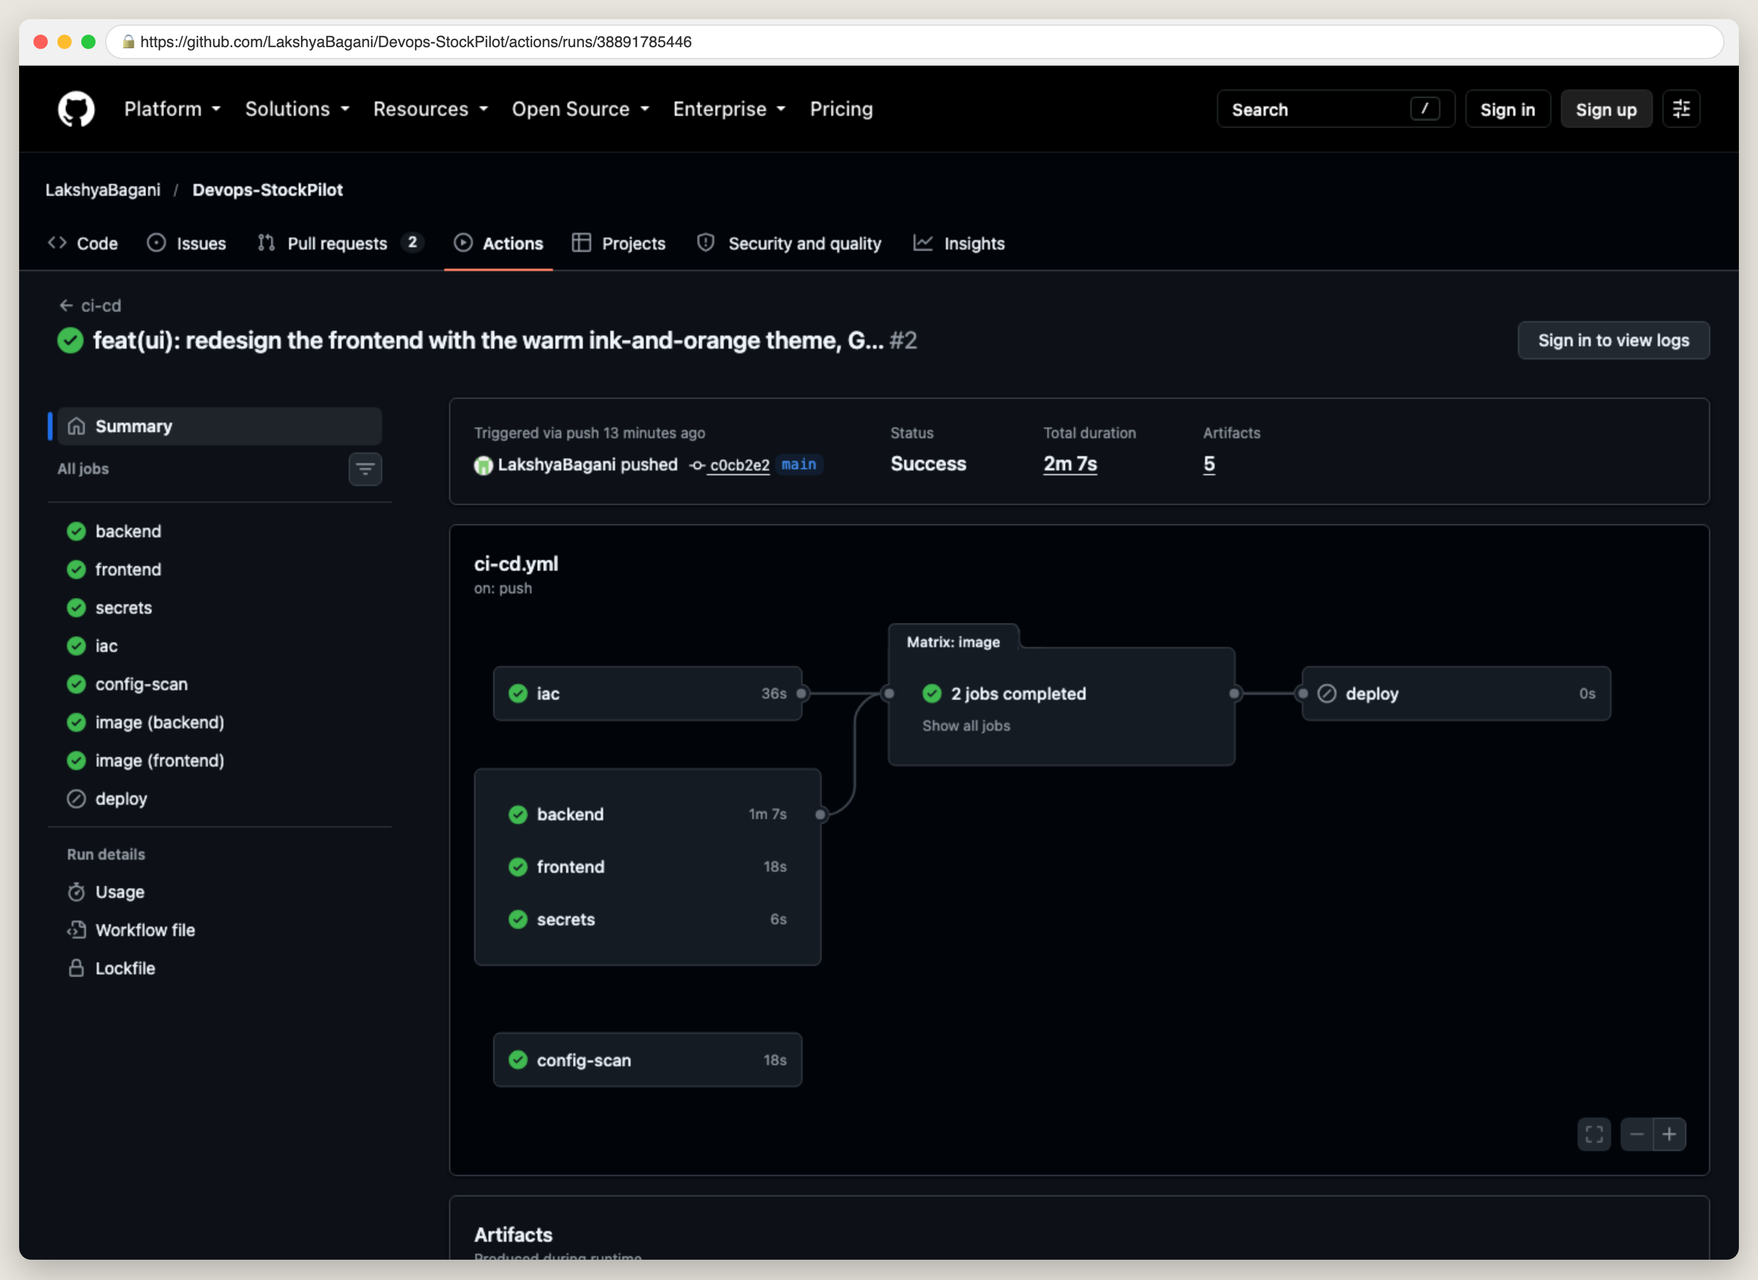
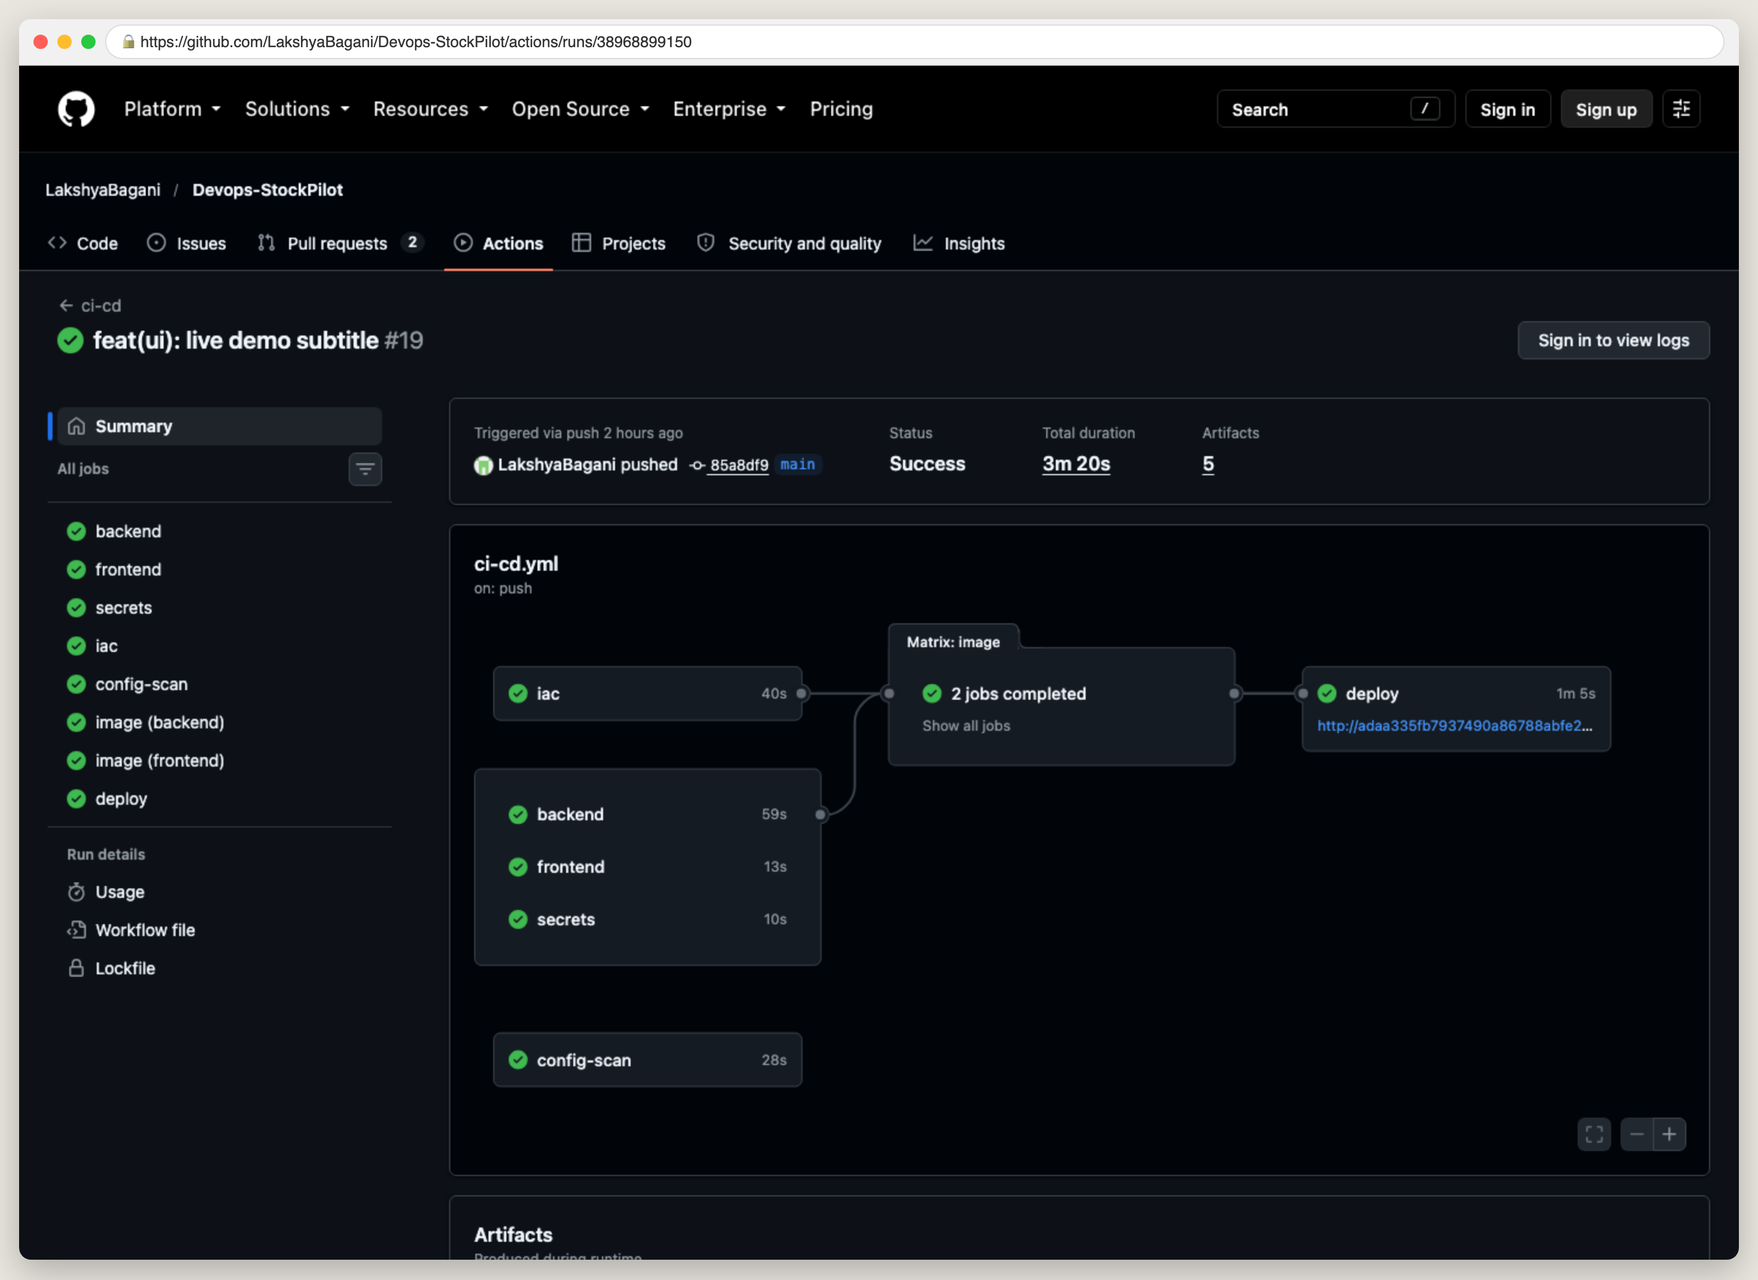
docs: direct pipeline run links, correct green-run screenshot, accurate ledger wording

diff --git a/README.md b/README.md
@@ -73,8 +73,9 @@ Traefik Ingress, and Prometheus with a Grafana dashboard shipped as code.
 
 What makes it more than CRUD:
 
-- **Stock is derived, never stored.** `on_hand = SUM(delta)` over an append-only ledger, so undo is
-  safe, the audit trail is complete and there is no counter to drift
+- **Stock is derived, never stored.** `on_hand = SUM(delta)` over a movement ledger whose rows are
+  never edited: a mistake is undone by deleting that one movement (refused if stock would go below
+  zero) and recording it again, so undo is safe and there is no counter to drift
   ([ADR-0005](docs/adr/0005-derived-stock-ledger.md)).
 - **No overselling, even with five replicas.** Every movement locks its product row
   (`SELECT … FOR UPDATE`) before it checks and writes; five PostgreSQL-only tests prove that
@@ -323,7 +324,8 @@ Alembic cycle is clean, then **284 passed, 0 skipped** in about 27 s.
 
 The suite has 148 test functions (284 cases with parametrisation); `backend/pytest.ini` and
 `backend/conftest.py` configure it. The frontend has its own `node:test` suite (`make lint-frontend`).
-Links to the green CI run and PR-A are added after the GitHub repo exists; the screenshot is
+In CI the same suite runs on a PostgreSQL 18 service in every pipeline ([green run](https://github.com/LakshyaBagani/Devops-StockPilot/actions/runs/38968899150); the
+deliberately failing [PR-A run](https://github.com/LakshyaBagani/Devops-StockPilot/actions/runs/38892765062)). The screenshot is
 [`docs/evidence/m2-01-pytest-v.png`](docs/evidence/m2-01-pytest-v.png) (from `make test-pg`: 284 passed, 0 skipped).
 
 ## 7. CI/CD pipeline
@@ -374,9 +376,12 @@ flowchart LR
   expected value in `test_on_hand_is_sum_of_movements`, so `backend` fails and no image is built.
   **PR-B** changes only the frontend runtime base to `nginx:1.27-alpine`, so the tests pass, the image
   builds, and `image (frontend)` fails at the strict Trivy gate.
-- **Checked locally:** actionlint and zizmor are clean on both workflows. The workflows have not run on
-  GitHub yet; the links to the latest green run, PR-A, PR-B and both GHCR package pages are added
-  after the GitHub repo exists.
+- **Checked locally:** actionlint and zizmor are clean on both workflows.
+- **Runs on GitHub:** [green run with deploy](https://github.com/LakshyaBagani/Devops-StockPilot/actions/runs/38968899150) (all 8 jobs, deploy to EKS included),
+  [PR-A](https://github.com/LakshyaBagani/Devops-StockPilot/pull/1) ([run](https://github.com/LakshyaBagani/Devops-StockPilot/actions/runs/38892765062): `backend` red, images skipped), [PR-B](https://github.com/LakshyaBagani/Devops-StockPilot/pull/2)
+  ([run](https://github.com/LakshyaBagani/Devops-StockPilot/actions/runs/38892773818): Trivy gate red), GHCR packages
+  [stockpilot-backend](https://github.com/users/LakshyaBagani/packages/container/package/stockpilot-backend) and
+  [stockpilot-frontend](https://github.com/users/LakshyaBagani/packages/container/package/stockpilot-frontend).
 
 ## 8. Security
 
@@ -388,8 +393,9 @@ Python libraries installed in the backend (the frontend image holds only nginx a
 Node packages). The gate step fails the job on any HIGH or CRITICAL finding, including findings that
 have no fix yet, so a vulnerable image never reaches GHCR or the cluster. Result for both StockPilot images: **0 HIGH/CRITICAL, strict mode (unfixed included),
 Trivy 0.75.0, DB 2026-10-15**, from `make scan` (the CI gate's flags on linux/amd64 builds;
-`.trivyignore` has no active entries). The pipeline's own scan tables are added after the GitHub repo
-exists.
+`.trivyignore` has no active entries). The pipeline's own scan tables are in
+[`m6-01-trivy-backend.png`](docs/evidence/m6-01-trivy-backend.png) and
+[`m6-02-trivy-frontend.png`](docs/evidence/m6-02-trivy-frontend.png) (from the [green run](https://github.com/LakshyaBagani/Devops-StockPilot/actions/runs/38968899150)'s image jobs).
 
 **One CVE explained: what the gate stops.** PR-B swaps only the frontend runtime base for the stale
 `nginx:1.27-alpine`. Scanned locally with the gate's flags on 2026-10-15, that base fails with 43
@@ -418,8 +424,8 @@ findings (41 HIGH, 2 CRITICAL). The top one:
 - **Why fail on it anyway.** Even on the stale base this bug would not be reachable, because the images
   are built for 64-bit platforms. The gate is a policy rather than a triage: when a fixed base exists,
   the build stays red until it is used.
-- The PR-B run link is added after the GitHub repo exists. The vulnerability database changes daily,
-  so if that run's top finding differs, this table is refreshed from its log.
+- The PR-B run: [https://github.com/LakshyaBagani/Devops-StockPilot/actions/runs/38892773818](https://github.com/LakshyaBagani/Devops-StockPilot/actions/runs/38892773818) ([`m6-03-pr-b-red.png`](docs/evidence/m6-03-pr-b-red.png)). The
+  vulnerability database changes daily, so a later re-run may report a different top finding.
 
 **The strict result in detail.** Both images use Alpine bases pinned by digest: `python:3.14-alpine`
 for the backend's build and runtime stages, with pip uninstalled, and
@@ -503,8 +509,8 @@ by hand and stops at a typed confirmation; nothing applies from CI.
 
 That is about $1.8 for a 6-hour session and about $50 for a week if forgotten, plus 18% GST. The plan
 is three short sessions (evidence, rehearsal, demo): $8–13 including GST with one overnight keep
-before the demo, about $6 without. **Actual spend** is added after the EKS sessions, from the Billing
-console.
+before the demo, about $6 without. The actual EKS run lasted about 6 hours
+(2026-10-16/17, `m7i-flex.large` nodes on a Free-plan project) and was destroyed the same night.
 
 **Teardown discipline:**
 
@@ -550,7 +556,7 @@ probe on the wrong path).
 
 **Planner sizing.** The default plan (1,000 scenarios, 30 days, 40 products) takes about 0.29 s of
 compute in a backend pod on kind, inside the 0.2–0.5 s target, so `PLANNER_DEFAULT_SCENARIOS` stays at
-1000. The calibration on the EKS node type is added after the EKS session.
+1000. On EKS (`m7i-flex.large`) the same default drove the HPA from 2 to 5 replicas within about 50 s under the load generator ([`m8-05-hpa-scaleout.png`](docs/evidence/m8-05-hpa-scaleout.png)).
 
 ## 11. Observability
 
@@ -601,9 +607,8 @@ kubectl -n monitoring port-forward svc/kube-prometheus-stack-grafana 13000:80   
 
 Every "What to Submit" item of GRADING.md, and where it is. **In repo** links the file.
 **Transcript** links a committed terminal record (`docs/evidence/terminal/` for Compose, Docker and
-Git; `docs/evidence/kind/terminal/` for the kind cluster, a backup of the EKS shots). **To capture**
-is a PNG still to take locally; **after GitHub** and **after EKS** are PNGs that need the public
-repository or an AWS session. Every PNG goes into `docs/evidence/` under the name shown.
+Git; `docs/evidence/kind/terminal/` for the kind cluster, a backup of the EKS shots). Every
+screenshot is in `docs/evidence/`; [`docs/evidence/README.md`](docs/evidence/README.md) lists them by module.
 
 | Module | What to Submit (GRADING.md) | Evidence | Status |
 |---|---|---|---|
@@ -630,9 +635,9 @@ repository or an AWS session. Every PNG goes into `docs/evidence/` under the nam
 | M4 | (supporting) Both images run as non-root | [transcript](docs/evidence/terminal/m4-04-nonroot-id.txt); [`m4-04-nonroot-id.png`](docs/evidence/m4-04-nonroot-id.png) | Captured |
 | M4 | (supporting) The backend image builds | [transcript](docs/evidence/terminal/m4-05-docker-build-backend.txt); [`m4-05-docker-build-backend.png`](docs/evidence/m4-05-docker-build-backend.png) | Captured |
 | M5 | `.github/workflows/` | [`ci-cd.yml`](.github/workflows/ci-cd.yml), [`whoami.yml`](.github/workflows/whoami.yml) | In repo |
-| M5 | Actions run URL of a green pipeline | Run URL and [`m5-01-green-run.png`](docs/evidence/m5-01-green-run.png) (the push run whose deploy is green) | Captured |
+| M5 | Actions run URL of a green pipeline | <https://github.com/LakshyaBagani/Devops-StockPilot/actions/runs/38968899150> and [`m5-01-green-run.png`](docs/evidence/m5-01-green-run.png) (run #19, all 8 jobs green including `deploy` to EKS) | Done |
 | M5 | GHCR package pages with SHA tags | [`m5-03-ghcr-backend-tags.png`](docs/evidence/m5-03-ghcr-backend-tags.png), [`m5-04-ghcr-frontend-tags.png`](docs/evidence/m5-04-ghcr-frontend-tags.png) | Captured |
-| M5 | (supporting) A failing test blocks the images (PR-A) | [`m5-02-pr-a-red.png`](docs/evidence/m5-02-pr-a-red.png) and the PR-A link | Captured |
+| M5 | (supporting) A failing test blocks the images (PR-A) | [`m5-02-pr-a-red.png`](docs/evidence/m5-02-pr-a-red.png), [PR-A](https://github.com/LakshyaBagani/Devops-StockPilot/pull/1), [run](https://github.com/LakshyaBagani/Devops-StockPilot/actions/runs/38892765062) | Done |
 | M6 | Trivy scan step in the workflow | Step "Trivy gate (HIGH/CRITICAL, strict)" in [`ci-cd.yml`](.github/workflows/ci-cd.yml) | In repo |
 | M6 | Screenshot of the Trivy output from a pipeline run | [`m6-01-trivy-backend.png`](docs/evidence/m6-01-trivy-backend.png), [`m6-02-trivy-frontend.png`](docs/evidence/m6-02-trivy-frontend.png); the red gate [`m6-03-pr-b-red.png`](docs/evidence/m6-03-pr-b-red.png) | Captured |
 | M6 | 2–3 sentences on what Trivy scanned and the result | [Security scan explained](#security-scan-explained) | In repo |
@@ -667,7 +672,7 @@ repository or an AWS session. Every PNG goes into `docs/evidence/` under the nam
 | [0002](docs/adr/0002-traefik-ingress.md) | Traefik as the Ingress controller on kind and EKS (ingress-nginx is retired; the AWS Load Balancer Controller with an ALB is the documented alternative) |
 | [0003](docs/adr/0003-github-oidc-deploy.md) | Deploy through GitHub OIDC to a trust-scoped IAM role, with no stored AWS keys |
 | [0004](docs/adr/0004-in-cluster-postgres.md) | PostgreSQL as an in-cluster StatefulSet rather than Amazon RDS |
-| [0005](docs/adr/0005-derived-stock-ledger.md) | Stock derived from an append-only movement ledger, with row locks against overselling |
+| [0005](docs/adr/0005-derived-stock-ledger.md) | Stock derived from a movement ledger (rows never edited, undo deletes one row), with row locks against overselling |
 | [0006](docs/adr/0006-sha-pinned-actions.md) | Every GitHub Action pinned to a full commit SHA, after the March 2026 trivy-action compromise |
 | [0007](docs/adr/0007-reorder-planner-policy.md) | The planner simulates the shop's (s, Q) policy, with Q covering the planning horizon |
 

diff --git a/terraform/README.md b/terraform/README.md
@@ -220,7 +220,7 @@ This proves GitHub can assume the deploy role before any cluster exists.
 
    Reading the log: the **Print OIDC claims** step shows `sub: repo:LakshyaBagani@<owner-id>/Devops-StockPilot@<repo-id>:environment:production` (repos created after 2026-07-15 send this immutable form) or the legacy `repo:LakshyaBagani/Devops-StockPilot:environment:production`. It must equal one of the two strings from step 2, character for character. **Caller identity** shows an ARN containing `assumed-role/stockpilot-gha-deploy/gha-whoami-`, and **Permission probe** shows `ResourceNotFoundException`: the call was authorised and no cluster exists yet. On `AccessDenied`, compare the printed `sub` with the trust policy, fix `terraform.tfvars`, and run `make eks-oidc` again.
 
-6. Full plan for the evidence: `make eks-plan` shows `Plan: 62 to add, 0 to change, 0 to destroy.` and `Changes other than create: 0` (m7-00, m7-01). Then `rm -f terraform/tfplan`: a saved plan goes stale.
+6. Full plan for the evidence: `make eks-plan` shows `Plan: 62 to add, 0 to change, 0 to destroy.` (the graded run in a no-OIDC project: 59 to add) and `Changes other than create: 0` (m7-00, m7-01). Then `rm -f terraform/tfplan`: a saved plan goes stale.
 
 ## 8. Lifecycle (P9 session)
 
@@ -237,7 +237,7 @@ Every `aws` line below carries the profile and region (B65); `kubectl` uses the 
    ```
 
 2. `make eks-preflight`: all PASS.
-3. **`make eks-up` (you; billing starts).** It runs the preflight, init, fmt, validate and `plan -out tfplan`, prints the `Plan:` line and the count of changes other than create, then asks `Type APPLY:`. Review `Plan: 62 to add, 0 to change, 0 to destroy.` (65, or 64, on a fresh bring-up after a full destroy) and type `APPLY`. Anything else deletes the saved plan and creates nothing. The apply takes 15–22 minutes, then the target writes the kube context and lists the nodes. If the node group is still `CREATING` after about 10 minutes, check its health (section 14) before waiting longer.
+3. **`make eks-up` (you; billing starts).** It runs the preflight, init, fmt, validate and `plan -out tfplan`, prints the `Plan:` line and the count of changes other than create, then asks `Type APPLY:`. Review `Plan: 62 to add, 0 to change, 0 to destroy.` (the graded run in a no-OIDC project: 59 to add) (65, or 64, on a fresh bring-up after a full destroy) and type `APPLY`. Anything else deletes the saved plan and creates nothing. The apply takes 15–22 minutes, then the target writes the kube context and lists the nodes. If the node group is still `CREATING` after about 10 minutes, check its health (section 14) before waiting longer.
 4. **Verify:**
 
    ```bash
@@ -317,7 +317,7 @@ Guardrails: the $10 budget with credits excluded and three alerts; Cost Anomaly 
 1. Checks the AWS account against `aws_account_id` and the `gh` login, then sets `DEPLOY_ENABLED=false` (its first change) and waits until no `ci-cd.yml` run is queued or in progress, so no deploy recreates what it removes.
 2. Uninstalls inside the cluster: the `stockpilot-lab` namespace, the load generator, the `stockpilot` release, the `stockpilot` PVCs (StatefulSet volumes outlive the release; it waits until their PVs are gone, so the CSI driver deletes the EBS volumes), kube-prometheus-stack, the ALB controller if present (only after its load balancers are gone), and Traefik (its Service owns the Classic LB). It stops if any LoadBalancer Service or PVC remains.
 3. Waits (up to 10 minutes) until the AWS-side gates are empty: Classic LBs, elbv2 LBs and target groups in the VPC, `k8s-*` security groups in the VPC, and volumes tagged `ebs.csi.aws.com/cluster=true`. Kubernetes created all of these, and Terraform does not know them.
-4. `terraform destroy`: review it and type `yes`. Expect `Destroy complete! Resources: 65 destroyed.` (64 when the GitHub OIDC provider pre-existed); screenshot it (m7-04).
+4. `terraform destroy`: review it and type `yes`. Expect `Destroy complete! Resources: 65 destroyed.` (the graded run: 59 destroyed) (64 when the GitHub OIDC provider pre-existed); screenshot it (m7-04).
 5. Runs the leftover sweep (`scripts/aws-leftovers.sh`, the same as `make leftovers`), offers to delete the kube context, and reminds you to check Cost Explorer.
 
 Flags, for `scripts/eks-teardown.sh` directly:
@@ -392,17 +392,19 @@ If the Traefik Service gets no load balancer address although the subnet tags an
 
 ## 15. M7 evidence index
 
-| File | Shows | When |
-|---|---|---|
-| `docs/evidence/m7-00-init-fmt-validate.png` (to capture) | `make eks-plan`: `Terraform has been successfully initialized!`, fmt clean, `Success! The configuration is valid.` | P8 (TF-12) |
-| `docs/evidence/m7-01-plan.png` (to capture) | the plan tail: `Plan: 62 to add, 0 to change, 0 to destroy.` and `Changes other than create: 0` | P8 (TF-12) |
-| `docs/evidence/m7-02-vpc-resource-map.png` (to capture) | VPC console, `stockpilot-vpc` Resource map: 2 public subnets → route table → internet gateway; region Mumbai | P9 (TF-16) |
-| `docs/evidence/m7-03-eks-console-nodegroup.png` (to capture) | EKS console, `stockpilot-eks` Overview (1.36, Active, standard support) and the Compute tab node group; region Mumbai | P9 (TF-16) |
-| `docs/evidence/m7-03b-kubectl-nodes.png` (to capture) | `kubectl --context stockpilot-eks get nodes -o wide`: 2 Ready nodes on v1.36 with private IPs | P9 (TF-16) |
-| `docs/evidence/m7-04-destroy.png` (to capture) | `make eks-down`: the empty AWS-side gates and `Destroy complete! Resources: 65 destroyed.` | P9 (TF-17) |
-| `docs/evidence/m7-05-gitleaks-full-history.png` (to capture) | the `secrets` job's full-history gitleaks run, no leaks | P10 (CI-16) |
-
-Related: `docs/evidence/m7-06-gitleaks-local.png` (to capture) (the local gitleaks run before the first push, CI-02) and the optional `docs/evidence/m7-07-oidc-whoami.png` (to capture) (the whoami run, section 7).
+| File | Shows |
+|---|---|
+| [`m7-00-init-fmt-validate.png`](../docs/evidence/m7-00-init-fmt-validate.png) | `terraform init`, `fmt -check`, `validate` and the mocked tests |
+| [`m7-01-plan.png`](../docs/evidence/m7-01-plan.png) | `terraform plan` in the graded project: `Plan: 59 to add, 0 to change, 0 to destroy` |
+| [`m7-02c-console-vpc-resource-map.png`](../docs/evidence/m7-02c-console-vpc-resource-map.png) | VPC console resource map: `spilot-vpc`, 2 public + 2 private subnets, route tables, IGW, NAT |
+| [`m7-02-vpc-public-subnets.png`](../docs/evidence/m7-02-vpc-public-subnets.png) | The same VPC from the AWS CLI |
+| [`m7-03c-console-eks-cluster.png`](../docs/evidence/m7-03c-console-eks-cluster.png) | EKS console: `spilot-eks`, Kubernetes 1.36, Active |
+| [`m7-03b-console-eks.png`](../docs/evidence/m7-03b-console-eks.png) | EKS console: the managed node group, Active, 2 × `m7i-flex.large` |
+| [`m7-03-eks-cluster-nodegroup.png`](../docs/evidence/m7-03-eks-cluster-nodegroup.png) | Terraform outputs, cluster and node group from the CLI, `kubectl get nodes` (2 Ready) |
+| [`m7-04-destroy.png`](../docs/evidence/m7-04-destroy.png) | `terraform destroy`: `Destroy complete! Resources: 59 destroyed.` |
+| [`m7-04b-no-leftovers.png`](../docs/evidence/m7-04b-no-leftovers.png) | After destroy: no cluster, VPC, NAT, nodes or load balancer left, empty state |
+| [`m7-05-gitleaks-full-history.png`](../docs/evidence/m7-05-gitleaks-full-history.png) | CI `secrets` job on `workflow_dispatch`: gitleaks over the full history, no leaks |
+| [`m7-06-gitleaks-local.png`](../docs/evidence/m7-06-gitleaks-local.png) | The local gitleaks run before the first push |
 
 ## 16. Why each setting (viva sheet)
 

diff --git a/docs/evidence/README.md b/docs/evidence/README.md
@@ -31,7 +31,7 @@ transcripts are the local kind rehearsal. The narrated walkthrough video is
 | M4 | (../../supporting) Both images run as non-root | [transcript](terminal/m4-04-nonroot-id.txt); [`m4-04-nonroot-id.png`](m4-04-nonroot-id.png) | Captured |
 | M4 | (../../supporting) The backend image builds | [transcript](terminal/m4-05-docker-build-backend.txt); [`m4-05-docker-build-backend.png`](m4-05-docker-build-backend.png) | Captured |
 | M5 | `.github/workflows/` | [`ci-cd.yml`](../../.github/workflows/ci-cd.yml), [`whoami.yml`](../../.github/workflows/whoami.yml) | In repo |
-| M5 | Actions run URL of a green pipeline | Run URL and [`m5-01-green-run.png`](m5-01-green-run.png) (the push run whose deploy is green) | Captured |
+| M5 | Actions run URL of a green pipeline | <https://github.com/LakshyaBagani/Devops-StockPilot/actions/runs/38968899150> and [`m5-01-green-run.png`](m5-01-green-run.png) (run #19, all 8 jobs green including `deploy` to EKS) | Done |
 | M5 | GHCR package pages with SHA tags | [`m5-03-ghcr-backend-tags.png`](m5-03-ghcr-backend-tags.png), [`m5-04-ghcr-frontend-tags.png`](m5-04-ghcr-frontend-tags.png) | Captured |
 | M5 | (../../supporting) A failing test blocks the images (../../PR-A) | [`m5-02-pr-a-red.png`](m5-02-pr-a-red.png) and the PR-A link | Captured |
 | M6 | Trivy scan step in the workflow | Step "Trivy gate (HIGH/CRITICAL, strict)" in [`ci-cd.yml`](../../.github/workflows/ci-cd.yml) | In repo |

diff --git a/docs/demo-script.md b/docs/demo-script.md
@@ -214,6 +214,6 @@ The rehearsal is the same script on the cluster the day before, with the same co
 repository admin. It is screen-recorded as the backup video, then reverted through a `revert(ui): …`
 pull request, before the `submission-v1` tag is created.
 
-- Rehearsal date, total duration and pipeline duration (push to deploy green): added after the EKS
-  rehearsal. Targets: the pipeline in at most 8 minutes with warm caches, the whole demo in at most
-  10 minutes.
+- Recorded on 2026-10-17 on EKS (`spilot-eks`): push of `85a8df9` to deploy green in 3 min 20 s
+  ([run 19](https://github.com/LakshyaBagani/Devops-StockPilot/actions/runs/38968899150)); the
+  narrated walkthrough is 11 min 10 s ([video](https://lakshyabagani.github.io/Devops-StockPilot/demo/)).
